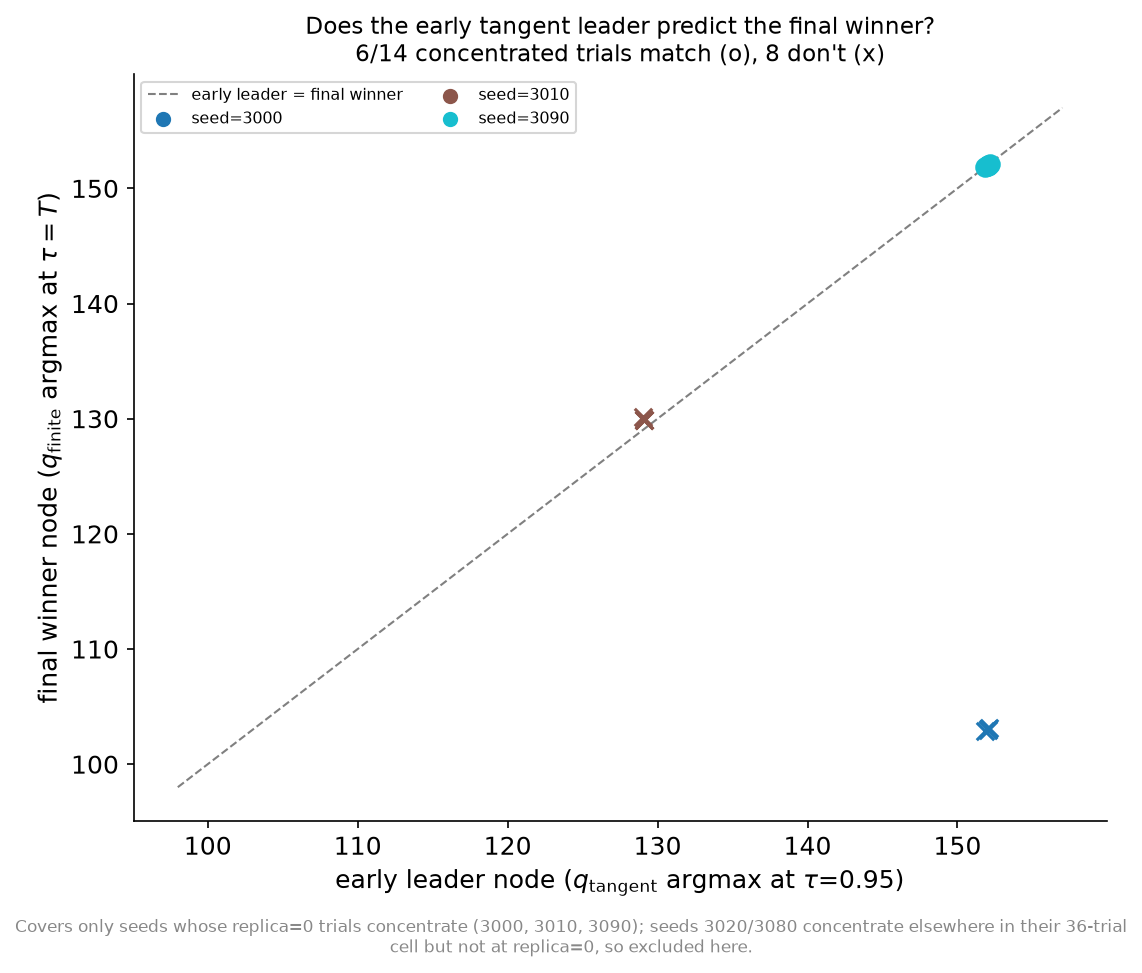
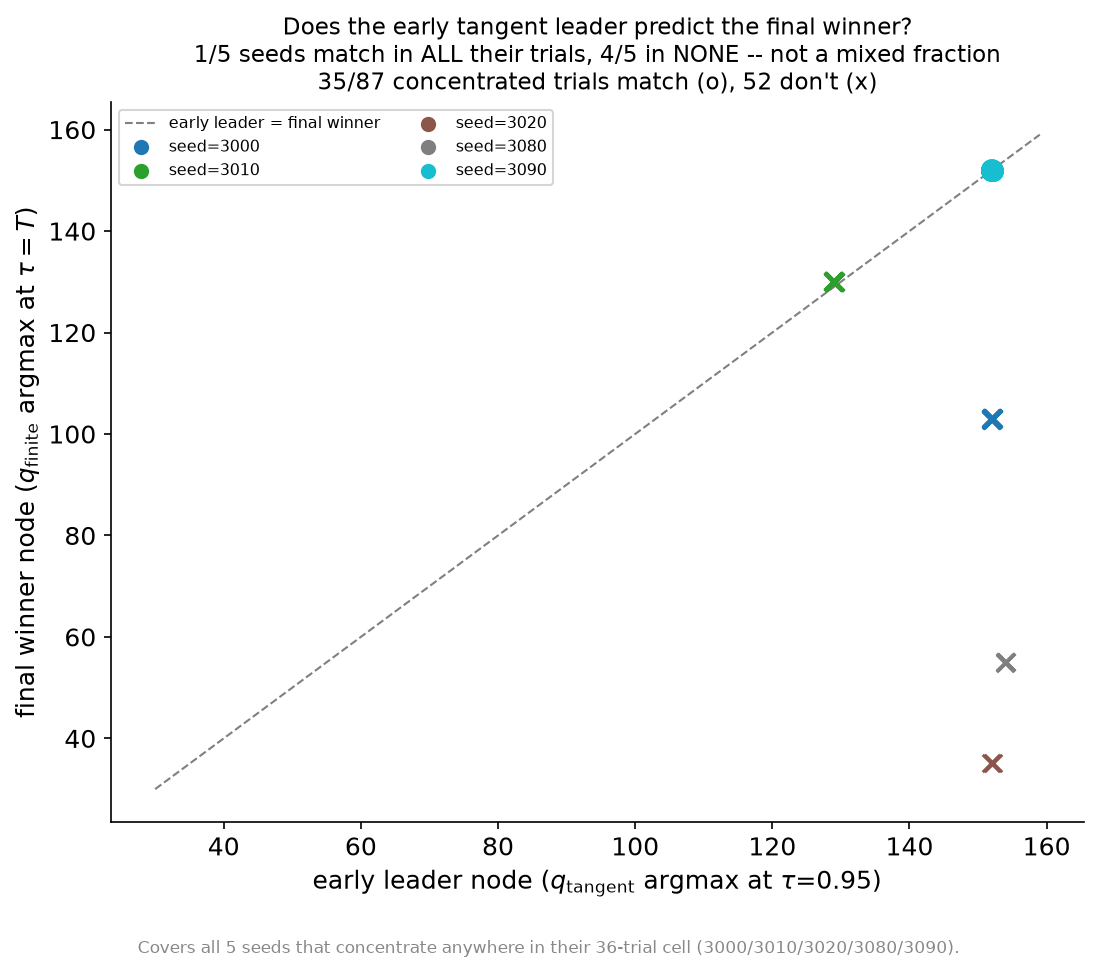
Expand early-leader analysis to all Stage 1B2 concentrated trials, generalizing findings beyond replica=0. Updated `plot10_early_leader_vs_final_winner` to include 87 trials across 5 seeds by integrating new tangent solves for non-zero replicas. Enhanced manuscript sections and captions to reflect p

diff --git a/docs/report_visuals/generate_report_visuals.py b/docs/report_visuals/generate_report_visuals.py
@@ -565,47 +565,79 @@ def plot9_destination_consistency_map():
 
 
 def plot10_early_leader_vs_final_winner():
-    """EXTRA_VISUALS_DESIGN.md item 6: for every concentrated (seed, sign,
-    amplitude) trial in the high-degree/t_p=0 cell (replica=0), compares
-    the EARLY tangent leader (argmax of q_tangent at tau=0.95 -- the time
-    node 152 peaked for seed=3000 in CONCENTRATION_REGIME_NOTE.md Part 3)
-    against the FINAL finite winner (argmax of the cached fixed_time_q).
-    Early-leader identity needs stage1b2_frontier_visuals_data.pkl's
-    tangent solve -- DISCLOSED NEW SIMULATION; final-winner identity comes
-    from already-cached stage1b2_results.pkl / Stage 1C files, no new
-    simulation for that half.
+    """EXTRA_VISUALS_DESIGN.md item 6: for every concentrated (seed, replica,
+    sign, amplitude) trial in the high-degree/t_p=0 cell, compares the EARLY
+    tangent leader (argmax of q_tangent at tau=0.95 -- the time node 152
+    peaked for seed=3000 in CONCENTRATION_REGIME_NOTE.md Part 3) against the
+    FINAL finite winner (argmax of the cached fixed_time_q). Early-leader
+    identity needs stage1b2_frontier_visuals_data.pkl's tangent solve --
+    DISCLOSED NEW SIMULATION; final-winner identity comes from already-
+    cached stage1b2_results.pkl / Stage 1C files, no new simulation for
+    that half.
 
-    Same replica=0 scope limitation as plot9: seeds 3020 and 3080 each
-    have a few concentrating trials among their 36 (2 and 5
-    respectively), but none at replica=0, so neither contributes any
-    point here -- this scatter covers only the 3 seeds (3000, 3010, 3090)
-    whose replica=0 trials happen to concentrate, not all 5 seeds that
-    concentrate somewhere in their full 36-trial cell."""
+    Covers ALL 87 concentrated trials across all 5 seeds that concentrate
+    anywhere in their 36-trial cell (3000, 3010, 3020, 3080, 3090) -- not
+    just the 14 whose replica happens to be 0 (an earlier version of this
+    plot covered only that replica=0 subset, silently dropping seeds
+    3020/3080 entirely since neither ever concentrates at replica=0;
+    fixed by generate_frontier_visuals_data.py's
+    find_concentrating_non_zero_replicas(), which reads the cache to find
+    exactly which extra (seed, replica) tangent solves are needed).
+
+    Resolves into a clean per-seed split, not a mixed fraction: 4 of the 5
+    seeds (3000, 3010, 3020, 3080) mismatch in EVERY one of their
+    concentrated trials; only seed=3090 -- the one Part 3 already found
+    builds up with no reversal -- matches in every one of its trials.
+    Reported as such in the title, not just the aggregate 35/87."""
     with open(STAGE1B2_FRONTIER_DATA_PATH, "rb") as f:
         frontier = pickle.load(f)
 
     seeds = frontier["all_baseline_seeds"]
-    conditions = [(sign, amp) for sign in (1, -1) for amp in (0.025, 0.2, 0.8)]
+    extra_tangent = frontier["extra_tangent_by_seed_replica"]
     early_tau = 0.95
 
-    rows = []
-    for seed in seeds:
-        entry = frontier["per_seed"][seed]
+    def early_leader_for(seed, replica):
+        if replica == 0:
+            entry = frontier["per_seed"][seed]
+        else:
+            entry = extra_tangent.get((seed, replica))
+            if entry is None:
+                return None  # tangent solve not available at this (seed, replica)
         t = entry["t_eval"]
         idx = int(np.argmin(np.abs(t - early_tau)))
-        early_leader = int(np.argmax(entry["q_tangent_full"][:, idx]))
+        return int(np.argmax(entry["q_tangent_full"][:, idx]))
 
+    rows = []
+    skipped_no_tangent = 0
+    for seed in seeds:
         cell = _load_high_tp0_cell(seed)
-        for sign, amp in conditions:
-            trial = cell[(0, 0, "high", sign, amp)]
+        for (t_p, replica, node_label, sign, amp), trial in cell.items():
             q_f = np.asarray(trial["fixed_time_q"])
             top1_f, final_winner = float(q_f.max()), int(np.argmax(q_f))
-            if top1_f > 0.5:
-                rows.append({"seed": seed, "early_leader": early_leader,
-                             "final_winner": final_winner, "match": early_leader == final_winner})
+            if top1_f <= 0.5:
+                continue
+            early_leader = early_leader_for(seed, replica)
+            if early_leader is None:
+                skipped_no_tangent += 1
+                continue
+            rows.append({"seed": seed, "replica": replica, "early_leader": early_leader,
+                         "final_winner": final_winner, "match": early_leader == final_winner})
 
     n_match = sum(r["match"] for r in rows)
     n_total = len(rows)
+
+    # Precision fix, same convention as CONCENTRATION_REGIME_NOTE.md's earlier
+    # "67% of the time" correction: report the per-seed breakdown, not just the
+    # aggregate fraction, since it turns out to be a clean per-seed split (every
+    # trial within a seed agrees), not a probabilistic mix within seeds.
+    seed_match_status = {}
+    for seed in sorted({r["seed"] for r in rows}):
+        seed_rows = [r for r in rows if r["seed"] == seed]
+        n_seed_match = sum(r["match"] for r in seed_rows)
+        seed_match_status[seed] = "all match" if n_seed_match == len(seed_rows) else (
+            "none match" if n_seed_match == 0 else f"{n_seed_match}/{len(seed_rows)} match")
+    n_all_match_seeds = sum(1 for v in seed_match_status.values() if v == "all match")
+    n_seeds = len(seed_match_status)
 
     fig, ax = plt.subplots(figsize=(7.5, 6.5))
     seed_list = sorted({r["seed"] for r in rows})
@@ -624,19 +656,21 @@ def plot10_early_leader_vs_final_winner():
     ax.set_xlabel(r"early leader node ($q_{\mathrm{tangent}}$ argmax at $\tau$=0.95)")
     ax.set_ylabel(r"final winner node ($q_{\mathrm{finite}}$ argmax at $\tau=T$)")
     ax.set_title(f"Does the early tangent leader predict the final winner?\n"
+                 f"{n_all_match_seeds}/{n_seeds} seeds match in ALL their trials, "
+                 f"{n_seeds - n_all_match_seeds}/{n_seeds} in NONE -- not a mixed fraction\n"
                  f"{n_match}/{n_total} concentrated trials match (o), {n_total - n_match} don't (x)", fontsize=11)
     for seed, color in seed_colors.items():
         ax.scatter([], [], color=color, label=f"seed={seed}", s=40)
     ax.legend(fontsize=7.5, loc="best", ncol=2)
-    fig.text(0.5, 0.01,
-             "Covers only seeds whose replica=0 trials concentrate (3000, 3010, 3090); "
-             "seeds 3020/3080 concentrate elsewhere in their 36-trial cell but not at replica=0, so excluded here.",
-             ha="center", fontsize=8, color=GREY, wrap=True)
+    caption = "Covers all 5 seeds that concentrate anywhere in their 36-trial cell (3000/3010/3020/3080/3090)."
+    if skipped_no_tangent:
+        caption += f" {skipped_no_tangent} concentrated trial(s) skipped -- no tangent solve at that replica."
+    fig.text(0.5, 0.01, caption, ha="center", fontsize=8, color=GREY, wrap=True)
     fig.tight_layout(rect=(0, 0.04, 1, 1))
     out_path = os.path.join(_THIS_DIR, "10_early_leader_vs_final_winner.png")
     fig.savefig(out_path, dpi=150, bbox_inches="tight")
     plt.close(fig)
-    print(f"Saved {out_path} ({n_match}/{n_total} matches)")
+    print(f"Saved {out_path} ({n_match}/{n_total} matches, {skipped_no_tangent} skipped)")
 
 
 def plot11_stage1c_consistency_extended():

diff --git a/experiments/stage1b2_structured_transformation/generate_frontier_visuals_data.py b/experiments/stage1b2_structured_transformation/generate_frontier_visuals_data.py
@@ -35,6 +35,19 @@ at 3 selected nodes, for 3 seeds), this script adds:
      second ODE solve of the nonlinear perturbed-theta system, exactly
      matching run_one_trial's second solve_ivp call, but retaining every
      timepoint.
+  4. The tangent solve at every additional non-zero replica where ANY
+     trial in the (node=high, t_p=0) cell concentrates (top1>0.5), for
+     any of the 5 seeds that concentrate at all (3000, 3010, 3020, 3080,
+     3090) -- found programmatically by find_concentrating_non_zero_replicas()
+     reading the already-cached result files, not guessed or hand-
+     enumerated. Without this, plot10's early-leader-vs-final-winner
+     comparison would silently cover only the subset of concentrated
+     trials whose replica happens to be 0 (an earlier version of this
+     script did exactly that: 14 of 87 actually-concentrated trials in
+     this cell family, with seeds 3020/3080 -- which never concentrate
+     at replica=0 -- entirely absent). This adds 19 more tangent solves
+     (~30s at the per-solve cost already observed above), giving full
+     coverage of all 87 concentrated trials across all 5 seeds.
 
 Everything here reuses stage1b2_core.py's and
 analyze_stage1b2_time_resolved_propagator.py's own building blocks
@@ -72,6 +85,35 @@ ILLUSTRATIVE_SEEDS = [3000, 3030, 3090]  # already-characterized in CONCENTRATIO
 SIGN = 1
 AMPLITUDE = 0.025
 STIM_NODE_LABEL = NODE_LABEL  # "high"
+
+STAGE1B2_RESULTS_PATH = _THIS_DIR / "results" / "stage1b2_results.pkl"
+STAGE1C_RESULTS_DIR = _THIS_DIR / ".." / "stage1c_trajectory_generalization" / "results"
+
+
+def find_concentrating_non_zero_replicas():
+    """Every (seed, replica) pair, replica != 0, where at least one trial in
+    the (node=high, t_p=0) cell concentrates (top1>0.5) -- read directly
+    from the already-cached stage1b2_results.pkl / Stage 1C result files,
+    not guessed or hand-enumerated. replica=0 is excluded here because
+    main()'s primary per-seed pass already covers it for every seed.
+
+    Exists so plot10 (early-leader-vs-final-winner) can cover ALL
+    concentrated trials in this cell, not just the ones whose seed's
+    replica=0 happens to concentrate -- an earlier version of that plot
+    covered only 14 of the 87 actually-concentrated trials in this cell
+    family for exactly that reason (seeds 3020 and 3080 concentrate only
+    at replicas 1 and 3, never 0, and were being silently dropped)."""
+    pairs = []
+    for seed in ALL_BASELINE_SEEDS:
+        path = STAGE1B2_RESULTS_PATH if seed == 3000 else STAGE1C_RESULTS_DIR / f"stage1c_results_seed{seed}.pkl"
+        with open(path, "rb") as f:
+            results = pickle.load(f)
+        cell = {k: v for k, v in results.items() if k[0] == 0 and k[2] == "high"}
+        replicas = sorted({k[1] for k, t in cell.items()
+                            if k[1] != 0 and float(np.max(np.asarray(t["fixed_time_q"]))) > 0.5})
+        pairs.extend((seed, r) for r in replicas)
+    return pairs
+
 
 EDGE_PAIRS = [
     (129, 105, "source -> relay"),
@@ -189,6 +231,20 @@ def main():
             print(f"  finite (nonlinear) solve done ({time.time()-t0:.1f}s elapsed total)")
 
         cache["per_seed"][seed] = entry
+
+    extra_seed_replicas = find_concentrating_non_zero_replicas()
+    print(f"\n{len(extra_seed_replicas)} additional (seed, replica) pairs need a tangent solve "
+          f"(non-zero replicas with a concentrated trial): {extra_seed_replicas}")
+    cache["extra_tangent_by_seed_replica"] = {}
+    for seed, replica in extra_seed_replicas:
+        print(f"\n=== seed={seed}, replica={replica} (extra, non-zero replica) ===")
+        replica_state = reconstruct_replica_state_at_tp0(W, seed, replica)
+        t_eval, theta_base_tau, delta_tau, P, delta0 = run_joint_tangent_full(W, replica_state, stim_node)
+        q_tangent_full = q_tangent_from_delta(delta_tau, SIGN * AMPLITUDE, P)
+        cache["extra_tangent_by_seed_replica"][(seed, replica)] = {
+            "t_eval": t_eval, "q_tangent_full": q_tangent_full,
+        }
+        print(f"  tangent solve done ({time.time()-t0:.1f}s elapsed total)")
 
     with open(CACHE_PATH, "wb") as f:
         pickle.dump(cache, f)

diff --git a/experiments/stage1b2_structured_transformation/CONCENTRATION_REGIME_NOTE.md b/experiments/stage1b2_structured_transformation/CONCENTRATION_REGIME_NOTE.md
@@ -288,6 +288,71 @@ grid, and not evidence about any other cell of the design. Code:
 `analyze_stage1b2_time_resolved_propagator.py`; plot:
 `results/stage1b2_time_resolved_propagator.png`.
 
+## Part 4: does the early-leader failure generalize beyond seed=3000?
+
+Part 3 found one striking fact about a single trajectory: seed=3000's
+early tangent leader (node 152, dominant by tau=0.95) is NOT the eventual
+finite winner (node 103) -- a genuine overtake, not a monotonic buildup.
+Prompted by the obvious follow-up question (is this one anecdote, or does
+it generalize to the other seeds that concentrate?), this part checks
+"early leader vs. final winner" across ALL 5 baseline seeds that
+concentrate anywhere in the (node=high, t_p=0) cell, not just seed=3000.
+
+**This required additional new simulation**, disclosed same as Part 3:
+`generate_frontier_visuals_data.py` (in
+`docs/report_visuals/`'s companion data-generation step) computes the
+tangent solve at every (seed, replica) combination where at least one
+trial actually concentrates -- found by reading the already-cached result
+files (`find_concentrating_non_zero_replicas()`), not guessed -- giving
+full coverage of all 87 concentrated trials across the 5 concentrating
+seeds (3000: 24, 3010: 21, 3020: 2, 3080: 5, 3090: 35), rather than only
+the 14 that happen to fall at replica=0 (an earlier pass covered only
+that subset and silently dropped seeds 3020/3080 entirely, since neither
+ever concentrates at replica=0).
+
+**Result: seed=3000's overtake is not an anecdote -- it is the norm, and
+seed=3090's clean buildup is the outlier.** Comparing the early tangent
+leader (argmax of `q_tangent` at tau=0.95) against the actual final
+winner (argmax of `fixed_time_q`), for every concentrated trial in each
+seed:
+
+| Seed | Concentrated trials | Early leader | Final winner(s) | Match? |
+|---|---|---|---|---|
+| 3000 | 24 | node 152 | node 103 | **0/24 -- never** |
+| 3010 | 21 | node 129 | node 130 | **0/21 -- never** |
+| 3020 | 2 | node 152 | node 35 | **0/2 -- never** |
+| 3080 | 5 | node 154 | node 55 | **0/5 -- never** |
+| 3090 | 35 | node 152 | node 152 | **35/35 -- always** |
+
+This is not a mixed 35/87 (~40%) probability spread across trials -- it
+is a clean, deterministic **per-seed** split: within every single seed,
+either 100% of its concentrated trials match or 0% do (no seed shows a
+mix). 4 of the 5 concentrating seeds show total early-leader failure; only
+seed=3090 -- the same trajectory Part 3 already found builds up
+monotonically with no reversal -- shows total early-leader success. The
+early tangent leader is a poor predictor of the eventual winner for the
+large majority of trajectories that concentrate at all, not just for the
+one trajectory (3000) that happened to be picked as illustrative.
+
+**What this does and doesn't establish.** This generalizes Part 3's
+"overtake, not buildup" finding from one trajectory to 4 of 5 -- a real
+strengthening of the case that a tau=0.95 snapshot (or any single
+early-time read of the tangent solution) cannot be used to predict the
+eventual winner, consistent with Section 11's conclusion that only the
+full time-ordered propagator determines the outcome. It does NOT explain
+*why* seed=3090 is the exception, or what distinguishes a trajectory whose
+early tangent leader holds up from one whose leader gets overtaken -- that
+remains open, same as Part 3 and Section 11 already left it. It also
+does not extend to the 5 non-concentrating seeds (3030, 3040-3070), which
+contribute no rows here by construction (no trial in their cell exceeds
+the top1>0.5 threshold).
+
+**Scope**: covers the (node=high, t_p=0) cell across all replicas, for the
+5 seeds that concentrate anywhere in it -- not a re-run of the full
+432-trial grid, and not evidence about any other cell. Code:
+`docs/report_visuals/generate_report_visuals.py`'s `plot10_early_leader_vs_final_winner`;
+plot: `docs/report_visuals/10_early_leader_vs_final_winner.png`.
+
 **Why the naive time-integral (Section 11) was never guaranteed to
 work.** The full propagator is $\Phi(T,0) =
 \mathcal{T}\exp(\int_0^T J(t)\,dt)$ -- a *time-ordered* exponential.
